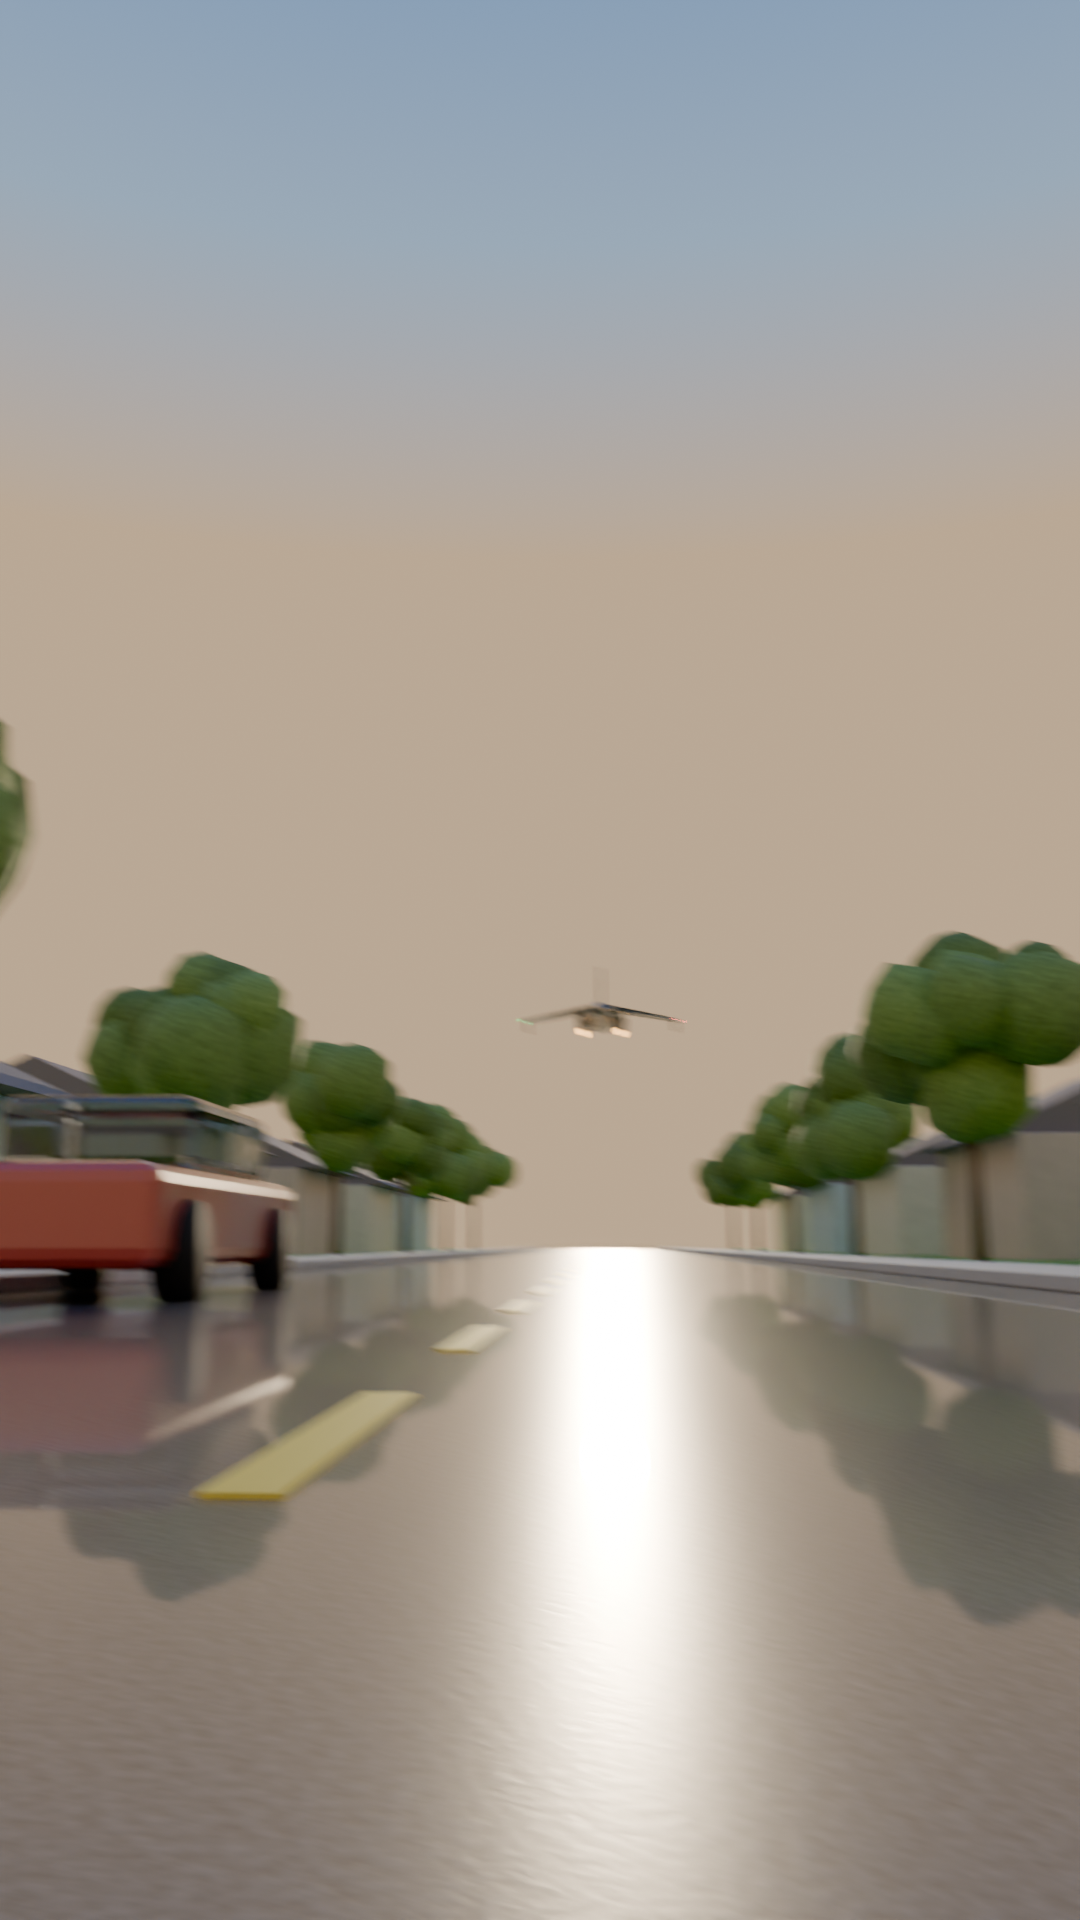
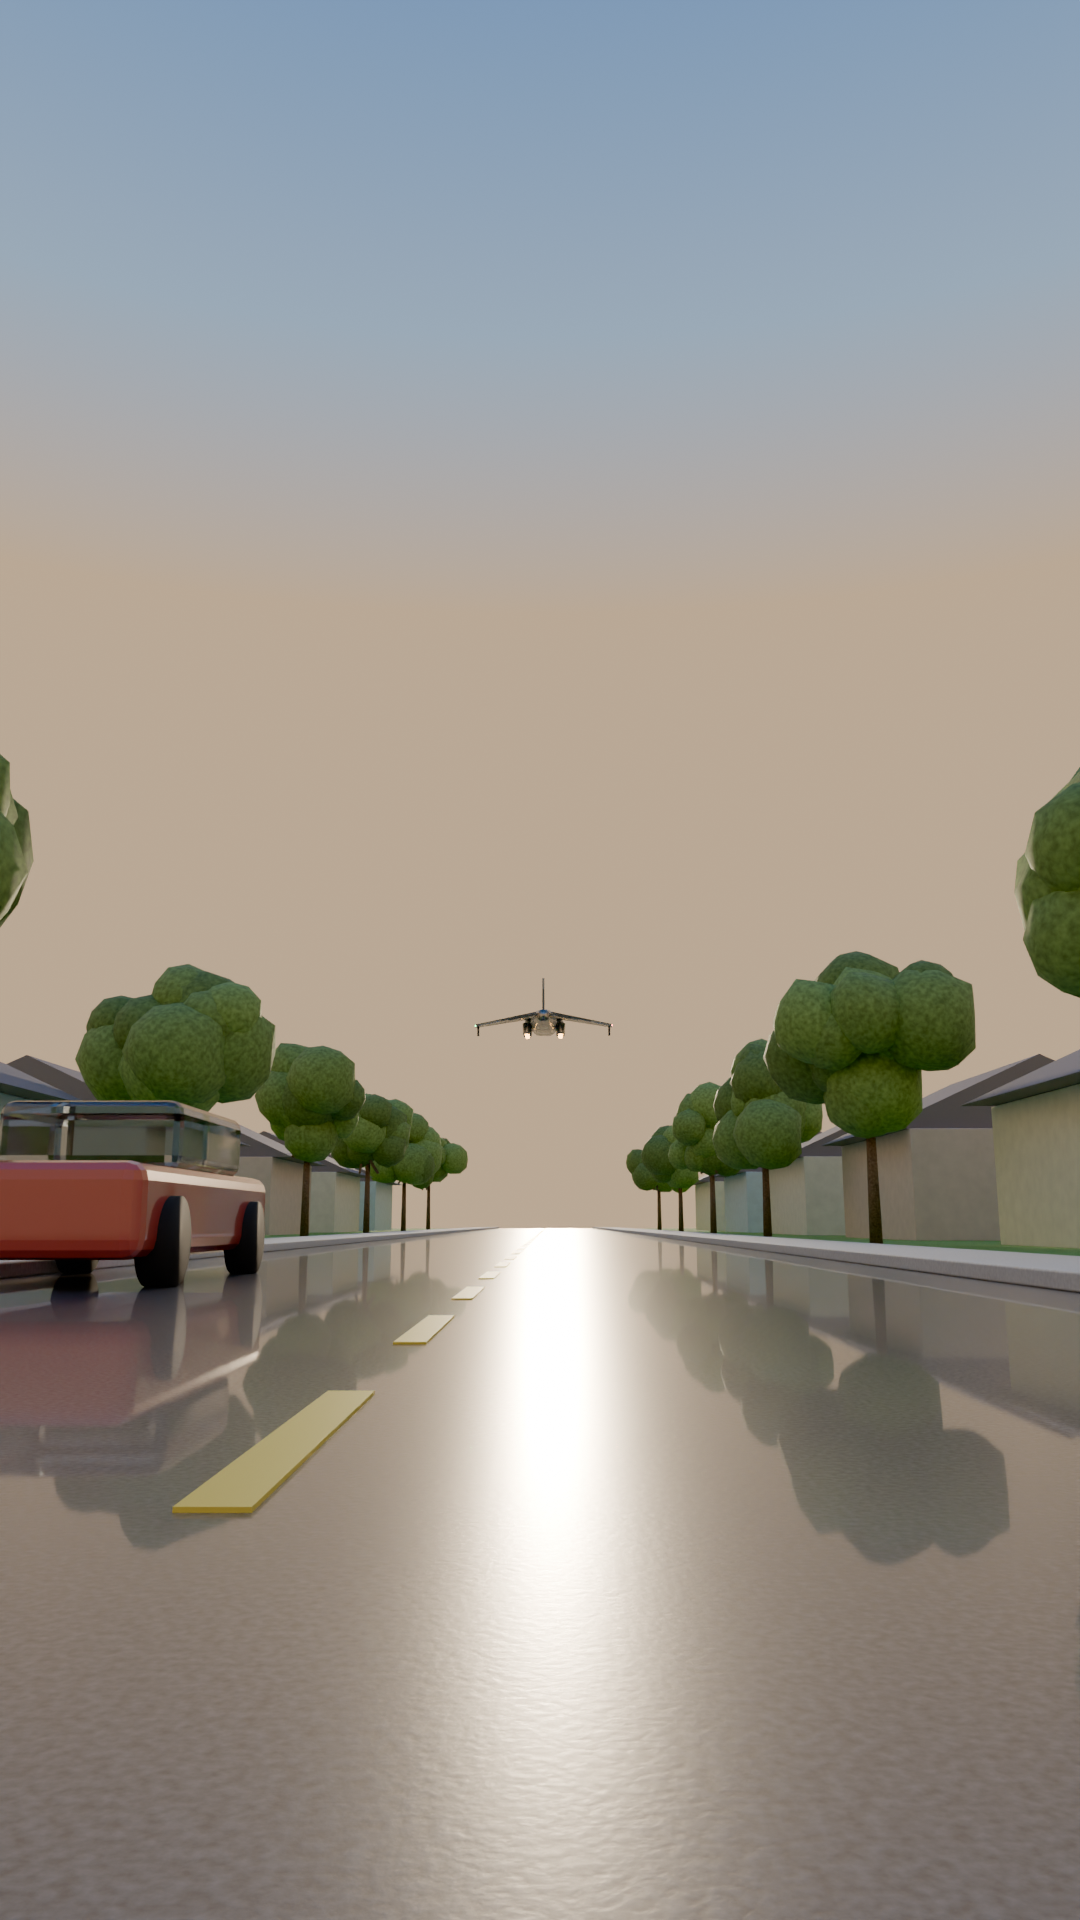
v2: flyby camera tracks the jet, tag drawn over jet layer, exact -14 LUFS mastering
Claude-Session: https://claude.ai/code/session_015zkSfycVcE5K8xsr2aTs8o

diff --git a/finance_shorts/audio/sound.py b/finance_shorts/audio/sound.py
@@ -426,7 +426,17 @@ def main():
     sf.write(DIR / "mix_raw.wav", (mix / max(1.0, np.abs(mix).max() / 0.98)).astype(np.float32), SR)
     import subprocess
     subprocess.run(["ffmpeg", "-v", "error", "-y", "-i", str(DIR / "mix_raw.wav"), "-af",
-                    "loudnorm=I=-14:TP=-1.0:LRA=9", "-ar", "48000", str(DIR / "mix.wav")], check=True)
+                    "volume=2.5dB,alimiter=limit=0.85:attack=3:release=60:level=disabled,loudnorm=I=-14:TP=-1.0:LRA=11", "-ar", "48000", str(DIR / "mix.wav")], check=True)
+    # exact loudness: measure, apply gain, true-peak limit; twice to converge on -14 LUFS
+    import re as _re
+    for _ in range(2):
+        out = subprocess.run(["ffmpeg", "-hide_banner", "-i", str(DIR / "mix.wav"), "-af", "ebur128=framelog=quiet", "-f", "null", "-"],
+                             capture_output=True, text=True).stderr
+        cur = float(_re.findall(r"I:\s+(-?[0-9.]+) LUFS", out)[-1])
+        subprocess.run(["ffmpeg", "-v", "error", "-y", "-i", str(DIR / "mix.wav"), "-af",
+                        f"volume={-14.0 - cur:.2f}dB,alimiter=limit=0.89:attack=2:release=40:level=disabled",
+                        "-ar", "48000", str(DIR / "mix_tmp.wav")], check=True)
+        (DIR / "mix_tmp.wav").replace(DIR / "mix.wav")
     print("mix ok", total)
 
 

diff --git a/finance_shorts/engine/sets_pepsi.py b/finance_shorts/engine/sets_pepsi.py
@@ -558,8 +558,15 @@ def P21_flyby():
     j.keyframe_insert("location", frame=47)
     j.keyframe_insert("rotation_euler", frame=47)
     sun("Sun", (82, 0, 180), 4.5, (1.0, 0.8, 0.55))
-    cam = camera((0.6, -6, 0.4), (0, 40, 9), lens=18)
-    cam.keyframe_insert("rotation_euler", frame=0)
-    cam.rotation_euler = (R(150), 0, R(178))
-    cam.keyframe_insert("rotation_euler", frame=47)
+    import bpy
+    cam = camera((0.6, -6, 0.5), (0, 40, 12), lens=16)
+    tgt = bpy.data.objects.new("CamTarget", None)
+    bpy.context.collection.objects.link(tgt)
+    for f, loc in ((0, (0, 60, 14)), (26, (0.3, 20, 11)), (38, (0.6, 2, 12)), (47, (0.8, -2, 16))):
+        tgt.location = loc
+        tgt.keyframe_insert("location", frame=f)
+    con = cam.constraints.new("TRACK_TO")
+    con.target = tgt
+    con.track_axis = "TRACK_NEGATIVE_Z"
+    con.up_axis = "UP_Y"
     return {"frames": 48, "spp": 14, "scale": 75}

diff --git a/finance_shorts/visuals/pepsi_jet_shots.py b/finance_shorts/visuals/pepsi_jet_shots.py
@@ -434,6 +434,7 @@ def s14(fx, t, u):  # $20M tag vs $700K
     fx.plate("P04_school_jet", keys(t, [(22.67, 1000), (24.77, 1060)]), 1130, keys(t, [(22.67, 1.5), (24.77, 1.7)]),
              par=(-50 * u, math.sin(t * 5) * 12, 0.03 * u))
     drop = spring(t - 23.0, 1.8, 5.0) if t > 23.0 else 0
+    fx.fg()
     tag(fx, 700, 1080 - (1 - drop) * 900, "$20,000,000+", "ONE (1) JET", rot=8 - 6 * drop, w=600,
         string_to=(760, 860 - (1 - drop) * 900))
     fx.end()
